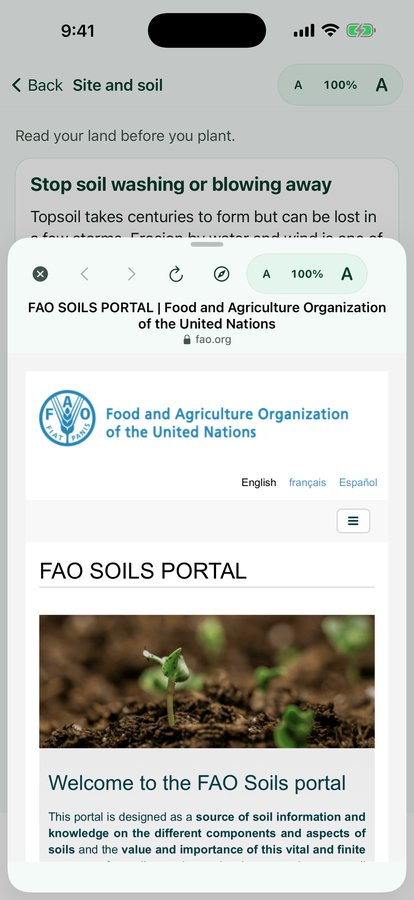
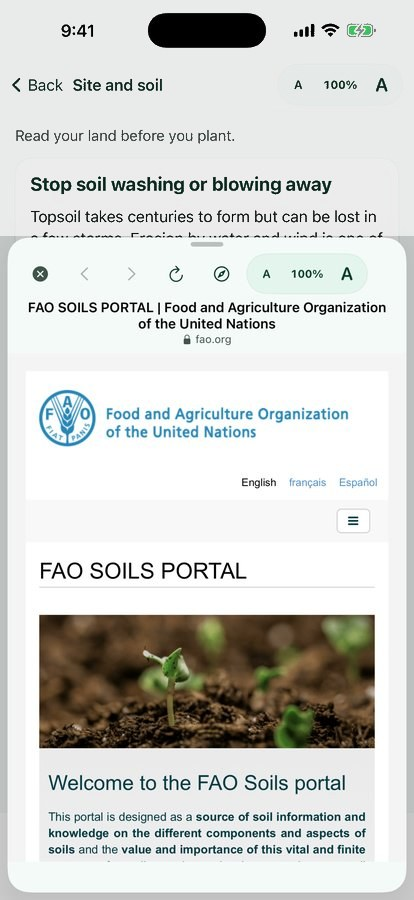
Site: lighter citation-sheet backdrop, cache-bust app screenshots

Changed region(s): [[0.0, 0.0, 1.0, 0.28]]

diff --git a/features/index.html b/features/index.html
@@ -25,7 +25,7 @@
 <section class="hero"><div class="wrap"><span class="eyebrow">Features</span><h1>A plan, and the tools to carry it out.</h1>
 <p class="lead">These screens are from the first-release build on iPhone and Android. It is not in the stores yet. Free shows you enough to judge it; Pro opens the whole library.</p>
 <p><a class="btn" href="../try/">Try it in your browser</a> <a class="btn ghost" href="../pricing/">Free and Pro</a></p></div></section>
-<section><div class="wrap"><div class="feat" id="learn"><div><h2>A library you can search</h2><p><span class="tag">Free: index and search</span><span class="tag pro">Pro: full guides</span></p><p>Learn is one hub for Guides, Crops, Diagnose, Calculators, Equipment and Glossary, with a single search box across all of them. Plan and Saved link straight into it.</p><p class="est">515 places, 69 crops, 188 documents and 306 cited sources are in the library today.</p></div><div class="feat-img"><figure class="phone"><img src="../assets/img/app/ios-learn.jpg" alt="PlainAgri Learn hub with six tiles and a search box" loading="lazy"></figure><figure class="phone"><img src="../assets/img/app/ios-search.jpg" alt="PlainAgri search results across crops, guides and glossary" loading="lazy"></figure></div></div><div class="feat rev" id="crops"><div><h2>Crop pages for your place</h2><p><span class="tag">Free: crop facts</span><span class="tag pro">Pro: growing guide</span></p><p>Pick a crop to see when it can be sown and harvested where you are, with spacing, seed rate and water need clearly labelled as estimates. The growing guide and an Add to my plot button are in Pro.</p></div><div class="feat-img"><figure class="phone"><img src="../assets/img/app/ios-crop.jpg" alt="PlainAgri crop page showing season, spacing and water need" loading="lazy"></figure></div></div><div class="feat" id="diagnose"><div><h2>Diagnose what you see</h2><p><span class="tag">Free: 3 walk-throughs</span><span class="tag pro">Pro: all 38</span></p><p>Answer a few plain questions about the leaves, the fruit or the stored grain. You get likely or possible causes, what to check, what to do and what to avoid, each with sources. Results are never presented as a certainty, and chemical advice always points you to labels and local rules.</p><p><a class="btn ghost" href="../try/#diagnose">Walk a real diagnosis</a></p></div><div class="feat-img"><figure class="phone"><img src="../assets/img/app/ios-diagq.jpg" alt="PlainAgri diagnosis question card" loading="lazy"></figure><figure class="phone"><img src="../assets/img/app/ios-diagr.jpg" alt="PlainAgri diagnosis result with check, do and avoid" loading="lazy"></figure></div></div><div class="feat" id="calculators"><div><h2>Calculators with the formula showing</h2><p><span class="tag">Free: rainwater, when to sow</span><span class="tag pro">Pro: all 9</span></p><p>Size a rainwater tank, work out how much irrigation water a bed needs, count plants and seed, plan fertilizer from a nutrient target, balance a compost heap, estimate storage space, and find your latest sowing date. Every calculator states its formula and assumptions and cites its sources.</p><p><a class="btn ghost" href="../try/#calculators">Try two of them</a></p></div><div class="feat-img"><figure class="phone"><img src="../assets/img/app/ios-calc.jpg" alt="PlainAgri calculator with inputs, results and formula" loading="lazy"></figure></div></div><div class="feat rev" id="plots"><div><h2>My Plots and a season task list</h2><p><span class="tag pro">Pro</span></p><p>Save each plot with its place, area, scale, water and crops. The app builds a season task list: prepare the soil, sow, harvest, with the calendar shifted correctly for your hemisphere and the equator. Reminders are optional, switched on per plot, and scheduled on your device. Nothing is sent anywhere.</p></div><div class="feat-img"><figure class="phone"><img src="../assets/img/app/ios-plot.jpg" alt="PlainAgri plot with season tasks" loading="lazy"></figure><figure class="phone android"><img src="../assets/img/app/and-reminder.jpg" alt="Android reminder notification listing jobs due on plots" loading="lazy"></figure></div></div><div class="feat" id="this-month"><div><h2>This month, at the top</h2><p><span class="tag">Free: outline</span><span class="tag pro">Pro: your plots</span></p><p>Open the Plan tab and the first card says what to sow now, what to harvest now and what is coming next month for your place. With plots saved, your own open tasks join it.</p></div><div class="feat-img"><figure class="phone android"><img src="../assets/img/app/and-this-month.jpg" alt="PlainAgri This month card on Android" loading="lazy"></figure></div></div><div class="feat rev" id="glossary"><div><h2>Words explained, right where you read them</h2><p><span class="tag">Free</span></p><p>234 terms in plain language. In plan and guide text, an underlined word opens a short definition with related terms and sources, then closes back to exactly where you were.</p></div><div class="feat-img"><figure class="phone"><img src="../assets/img/app/ios-term.jpg" alt="PlainAgri glossary definition sheet over a guide" loading="lazy"></figure><figure class="phone"><img src="../assets/img/app/ios-doc.jpg" alt="PlainAgri guide with underlined glossary terms" loading="lazy"></figure></div></div><div class="feat" id="equipment"><div><h2>Equipment from a dibber to a drone</h2><p><span class="tag">Free: the list</span></p><p>108 tools and machines across all seven scales: hand tools, draft animals, small and large machinery, robotic and precision systems, and aerial work. Filter by scale and kind, and every entry says what it needs, the area it suits and the manual alternative.</p></div><div class="feat-img"><figure class="phone"><img src="../assets/img/app/ios-equip.jpg" alt="PlainAgri equipment detail with needs, area and manual alternative" loading="lazy"></figure></div></div><div class="feat" id="export"><div><h2>Take your plan with you</h2><p><span class="tag pro">Pro</span></p><p>Export a plan, or one plot's plan, as a PDF with every section and a numbered source list with web addresses, and share it with the system share sheet. Handy for a co-op meeting, an extension visit or a landlord.</p></div><div class="feat-img"><p class="est">The PDF is plain and printable: your place and setup, each plan section, and a numbered list of sources.</p></div></div><div class="feat rev" id="zoom"><div><h2>Text size that fits you</h2><p><span class="tag">Free, everywhere</span></p><p>Every screen has an A- and A+ control with the exact percentage, from 50 to 300 percent. It scales the whole app, including the tab bar and sheets, on phones, tablets and foldables, and layouts reflow instead of cutting words off. <a href="../try/#zoom">Try the zoom</a>.</p></div><div class="feat-img"><figure class="phone"><img src="../assets/img/app/zoom-50.jpg" alt="PlainAgri plan at 50 percent text size" loading="lazy"></figure><figure class="phone"><img src="../assets/img/app/zoom-100.jpg" alt="PlainAgri plan at 100 percent text size" loading="lazy"></figure><figure class="phone"><img src="../assets/img/app/zoom-300.jpg" alt="PlainAgri plan at 300 percent text size" loading="lazy"></figure></div></div><div class="feat rev" id="themes"><div><h2>Your colours, NutriSize by default</h2><p><span class="tag">Free, everywhere</span></p><p>The app opens in the clean NutriSize Health look: white and soft green with deep green and blue accents, always light. If you prefer something else, Appearance in the About tab offers Field (warm earth tones) and Night (dark). Your choice is saved on your device.</p></div><div class="feat-img"></div></div><div class="feat" id="devices"><div><h2>Fluid on every device</h2><p><span class="tag">Free</span></p><p>Layouts adapt from small phones to tablets: reading width is capped and centred on wide screens, bars tuck away while you scroll at large text sizes, and the app rotates on iPad and Android. Checked on a range of simulated phones, tablets and a foldable.</p></div><div class="feat-img"><figure class="phone" style="width:min(420px,90vw);aspect-ratio:auto"><img src="../assets/img/app/ipad-plan.jpg" alt="PlainAgri plan on an iPad" loading="lazy" style="object-fit:contain"></figure></div></div>
+<section><div class="wrap"><div class="feat" id="learn"><div><h2>A library you can search</h2><p><span class="tag">Free: index and search</span><span class="tag pro">Pro: full guides</span></p><p>Learn is one hub for Guides, Crops, Diagnose, Calculators, Equipment and Glossary, with a single search box across all of them. Plan and Saved link straight into it.</p><p class="est">515 places, 69 crops, 188 documents and 306 cited sources are in the library today.</p></div><div class="feat-img"><figure class="phone"><img src="../assets/img/app/ios-learn.jpg?v=2" alt="PlainAgri Learn hub with six tiles and a search box" loading="lazy"></figure><figure class="phone"><img src="../assets/img/app/ios-search.jpg?v=2" alt="PlainAgri search results across crops, guides and glossary" loading="lazy"></figure></div></div><div class="feat rev" id="crops"><div><h2>Crop pages for your place</h2><p><span class="tag">Free: crop facts</span><span class="tag pro">Pro: growing guide</span></p><p>Pick a crop to see when it can be sown and harvested where you are, with spacing, seed rate and water need clearly labelled as estimates. The growing guide and an Add to my plot button are in Pro.</p></div><div class="feat-img"><figure class="phone"><img src="../assets/img/app/ios-crop.jpg?v=2" alt="PlainAgri crop page showing season, spacing and water need" loading="lazy"></figure></div></div><div class="feat" id="diagnose"><div><h2>Diagnose what you see</h2><p><span class="tag">Free: 3 walk-throughs</span><span class="tag pro">Pro: all 38</span></p><p>Answer a few plain questions about the leaves, the fruit or the stored grain. You get likely or possible causes, what to check, what to do and what to avoid, each with sources. Results are never presented as a certainty, and chemical advice always points you to labels and local rules.</p><p><a class="btn ghost" href="../try/#diagnose">Walk a real diagnosis</a></p></div><div class="feat-img"><figure class="phone"><img src="../assets/img/app/ios-diagq.jpg?v=2" alt="PlainAgri diagnosis question card" loading="lazy"></figure><figure class="phone"><img src="../assets/img/app/ios-diagr.jpg?v=2" alt="PlainAgri diagnosis result with check, do and avoid" loading="lazy"></figure></div></div><div class="feat" id="calculators"><div><h2>Calculators with the formula showing</h2><p><span class="tag">Free: rainwater, when to sow</span><span class="tag pro">Pro: all 9</span></p><p>Size a rainwater tank, work out how much irrigation water a bed needs, count plants and seed, plan fertilizer from a nutrient target, balance a compost heap, estimate storage space, and find your latest sowing date. Every calculator states its formula and assumptions and cites its sources.</p><p><a class="btn ghost" href="../try/#calculators">Try two of them</a></p></div><div class="feat-img"><figure class="phone"><img src="../assets/img/app/ios-calc.jpg?v=2" alt="PlainAgri calculator with inputs, results and formula" loading="lazy"></figure></div></div><div class="feat rev" id="plots"><div><h2>My Plots and a season task list</h2><p><span class="tag pro">Pro</span></p><p>Save each plot with its place, area, scale, water and crops. The app builds a season task list: prepare the soil, sow, harvest, with the calendar shifted correctly for your hemisphere and the equator. Reminders are optional, switched on per plot, and scheduled on your device. Nothing is sent anywhere.</p></div><div class="feat-img"><figure class="phone"><img src="../assets/img/app/ios-plot.jpg?v=2" alt="PlainAgri plot with season tasks" loading="lazy"></figure><figure class="phone android"><img src="../assets/img/app/and-reminder.jpg?v=2" alt="Android reminder notification listing jobs due on plots" loading="lazy"></figure></div></div><div class="feat" id="this-month"><div><h2>This month, at the top</h2><p><span class="tag">Free: outline</span><span class="tag pro">Pro: your plots</span></p><p>Open the Plan tab and the first card says what to sow now, what to harvest now and what is coming next month for your place. With plots saved, your own open tasks join it.</p></div><div class="feat-img"><figure class="phone android"><img src="../assets/img/app/and-this-month.jpg?v=2" alt="PlainAgri This month card on Android" loading="lazy"></figure></div></div><div class="feat rev" id="glossary"><div><h2>Words explained, right where you read them</h2><p><span class="tag">Free</span></p><p>234 terms in plain language. In plan and guide text, an underlined word opens a short definition with related terms and sources, then closes back to exactly where you were.</p></div><div class="feat-img"><figure class="phone"><img src="../assets/img/app/ios-term.jpg?v=2" alt="PlainAgri glossary definition sheet over a guide" loading="lazy"></figure><figure class="phone"><img src="../assets/img/app/ios-doc.jpg?v=2" alt="PlainAgri guide with underlined glossary terms" loading="lazy"></figure></div></div><div class="feat" id="equipment"><div><h2>Equipment from a dibber to a drone</h2><p><span class="tag">Free: the list</span></p><p>108 tools and machines across all seven scales: hand tools, draft animals, small and large machinery, robotic and precision systems, and aerial work. Filter by scale and kind, and every entry says what it needs, the area it suits and the manual alternative.</p></div><div class="feat-img"><figure class="phone"><img src="../assets/img/app/ios-equip.jpg?v=2" alt="PlainAgri equipment detail with needs, area and manual alternative" loading="lazy"></figure></div></div><div class="feat" id="export"><div><h2>Take your plan with you</h2><p><span class="tag pro">Pro</span></p><p>Export a plan, or one plot's plan, as a PDF with every section and a numbered source list with web addresses, and share it with the system share sheet. Handy for a co-op meeting, an extension visit or a landlord.</p></div><div class="feat-img"><p class="est">The PDF is plain and printable: your place and setup, each plan section, and a numbered list of sources.</p></div></div><div class="feat rev" id="zoom"><div><h2>Text size that fits you</h2><p><span class="tag">Free, everywhere</span></p><p>Every screen has an A- and A+ control with the exact percentage, from 50 to 300 percent. It scales the whole app, including the tab bar and sheets, on phones, tablets and foldables, and layouts reflow instead of cutting words off. <a href="../try/#zoom">Try the zoom</a>.</p></div><div class="feat-img"><figure class="phone"><img src="../assets/img/app/zoom-50.jpg?v=2" alt="PlainAgri plan at 50 percent text size" loading="lazy"></figure><figure class="phone"><img src="../assets/img/app/zoom-100.jpg?v=2" alt="PlainAgri plan at 100 percent text size" loading="lazy"></figure><figure class="phone"><img src="../assets/img/app/zoom-300.jpg?v=2" alt="PlainAgri plan at 300 percent text size" loading="lazy"></figure></div></div><div class="feat rev" id="themes"><div><h2>Your colours, NutriSize by default</h2><p><span class="tag">Free, everywhere</span></p><p>The app opens in the clean NutriSize Health look: white and soft green with deep green and blue accents, always light. If you prefer something else, Appearance in the About tab offers Field (warm earth tones) and Night (dark). Your choice is saved on your device.</p></div><div class="feat-img"></div></div><div class="feat" id="devices"><div><h2>Fluid on every device</h2><p><span class="tag">Free</span></p><p>Layouts adapt from small phones to tablets: reading width is capped and centred on wide screens, bars tuck away while you scroll at large text sizes, and the app rotates on iPad and Android. Checked on a range of simulated phones, tablets and a foldable.</p></div><div class="feat-img"><figure class="phone" style="width:min(420px,90vw);aspect-ratio:auto"><img src="../assets/img/app/ipad-plan.jpg?v=2" alt="PlainAgri plan on an iPad" loading="lazy" style="object-fit:contain"></figure></div></div>
 <p class="est">Screens show sample places and plots. Guides are AI-drafted and spot-checked; nothing is called expert-reviewed until a named expert signs off. Always confirm local conditions and product labels.</p></div></section>
 </main>
 <footer><details class="footer-dock"><summary><span class="dock-links"><a href="../">Home</a><a href="../privacy/">Privacy</a><a href="../support/">Support</a></span><span class="dock-copy">&copy; 2026 EqualInformation, LLC</span><span class="dock-more">More</span></summary>

diff --git a/index.html b/index.html
@@ -46,11 +46,11 @@
 <section class="alt"><div class="wrap"><h2>See it in the app</h2>
 <p class="lead">Real screens from the first-release build on iPhone and Android. These are a taste: the full plan, the whole library and saved plans are in the app.</p>
 <div class="shots">
-<figure><div class="phone"><img src="assets/img/app/plan.jpg" alt="PlainAgri plan screen for Nairobi showing climate zone, setup and plan sections" loading="lazy"></div><figcaption>Your place, your setup, your plan</figcaption></figure>
-<figure><div class="phone"><img src="assets/img/app/crops.jpg" alt="PlainAgri what to grow here screen" loading="lazy"></div><figcaption>Crops that suit your climate</figcaption></figure>
-<figure><div class="phone"><img src="assets/img/app/machinery.jpg" alt="PlainAgri guidance for machinery scale" loading="lazy"></div><figcaption>Methods that match your scale</figcaption></figure>
-<figure><div class="phone"><img src="assets/img/app/sources.jpg" alt="PlainAgri in-app source viewer opened at 80 percent height" loading="lazy"></div><figcaption>Every source opens in the app</figcaption></figure>
-<figure><div class="phone android"><img src="assets/img/app/android-water.jpg" alt="PlainAgri on Android, water section" loading="lazy"></div><figcaption>The same plan on Android</figcaption></figure>
+<figure><div class="phone"><img src="assets/img/app/plan.jpg?v=2" alt="PlainAgri plan screen for Nairobi showing climate zone, setup and plan sections" loading="lazy"></div><figcaption>Your place, your setup, your plan</figcaption></figure>
+<figure><div class="phone"><img src="assets/img/app/crops.jpg?v=2" alt="PlainAgri what to grow here screen" loading="lazy"></div><figcaption>Crops that suit your climate</figcaption></figure>
+<figure><div class="phone"><img src="assets/img/app/machinery.jpg?v=2" alt="PlainAgri guidance for machinery scale" loading="lazy"></div><figcaption>Methods that match your scale</figcaption></figure>
+<figure><div class="phone"><img src="assets/img/app/sources.jpg?v=2" alt="PlainAgri in-app source viewer opened at 80 percent height" loading="lazy"></div><figcaption>Every source opens in the app</figcaption></figure>
+<figure><div class="phone android"><img src="assets/img/app/android-water.jpg?v=2" alt="PlainAgri on Android, water section" loading="lazy"></div><figcaption>The same plan on Android</figcaption></figure>
 </div></div></section>
 
 <section><div class="wrap"><h2>More than a plan: a whole toolbox</h2>

diff --git a/tools/gen.py b/tools/gen.py
@@ -85,11 +85,11 @@ page("","PlainAgri: Tell us where you are. We plan the rest.","PlainAgri designs
 <section class="alt"><div class="wrap"><h2>See it in the app</h2>
 <p class="lead">Real screens from the first-release build on iPhone and Android. These are a taste: the full plan, the whole library and saved plans are in the app.</p>
 <div class="shots">
-<figure><div class="phone"><img src="assets/img/app/plan.jpg" alt="PlainAgri plan screen for Nairobi showing climate zone, setup and plan sections" loading="lazy"></div><figcaption>Your place, your setup, your plan</figcaption></figure>
-<figure><div class="phone"><img src="assets/img/app/crops.jpg" alt="PlainAgri what to grow here screen" loading="lazy"></div><figcaption>Crops that suit your climate</figcaption></figure>
-<figure><div class="phone"><img src="assets/img/app/machinery.jpg" alt="PlainAgri guidance for machinery scale" loading="lazy"></div><figcaption>Methods that match your scale</figcaption></figure>
-<figure><div class="phone"><img src="assets/img/app/sources.jpg" alt="PlainAgri in-app source viewer opened at 80 percent height" loading="lazy"></div><figcaption>Every source opens in the app</figcaption></figure>
-<figure><div class="phone android"><img src="assets/img/app/android-water.jpg" alt="PlainAgri on Android, water section" loading="lazy"></div><figcaption>The same plan on Android</figcaption></figure>
+<figure><div class="phone"><img src="assets/img/app/plan.jpg?v=2" alt="PlainAgri plan screen for Nairobi showing climate zone, setup and plan sections" loading="lazy"></div><figcaption>Your place, your setup, your plan</figcaption></figure>
+<figure><div class="phone"><img src="assets/img/app/crops.jpg?v=2" alt="PlainAgri what to grow here screen" loading="lazy"></div><figcaption>Crops that suit your climate</figcaption></figure>
+<figure><div class="phone"><img src="assets/img/app/machinery.jpg?v=2" alt="PlainAgri guidance for machinery scale" loading="lazy"></div><figcaption>Methods that match your scale</figcaption></figure>
+<figure><div class="phone"><img src="assets/img/app/sources.jpg?v=2" alt="PlainAgri in-app source viewer opened at 80 percent height" loading="lazy"></div><figcaption>Every source opens in the app</figcaption></figure>
+<figure><div class="phone android"><img src="assets/img/app/android-water.jpg?v=2" alt="PlainAgri on Android, water section" loading="lazy"></div><figcaption>The same plan on Android</figcaption></figure>
 </div></div></section>
 
 <section><div class="wrap"><h2>More than a plan: a whole toolbox</h2>
@@ -215,7 +215,7 @@ page("about","About PlainAgri","PlainAgri is built by one highly experienced eng
 
 # ---------- features ----------
 def ph(img,alt,android=False):
-    return f'<figure class="phone{" android" if android else ""}"><img src="../assets/img/app/{img}" alt="{alt}" loading="lazy"></figure>'
+    return f'<figure class="phone{" android" if android else ""}"><img src="../assets/img/app/{img}?v=2" alt="{alt}" loading="lazy"></figure>'
 def feat(fid,title,tags,text,imgs,rev=False):
     t="".join(f'<span class="tag{" pro" if x.startswith("Pro") else ""}">{x}</span>' for x in tags)
     return f'<div class="feat{" rev" if rev else ""}" id="{fid}"><div><h2>{title}</h2><p>{t}</p>{text}</div><div class="feat-img">{imgs}</div></div>'
@@ -231,7 +231,7 @@ FEATS=[
  feat("export","Take your plan with you",["Pro"],"<p>Export a plan, or one plot's plan, as a PDF with every section and a numbered source list with web addresses, and share it with the system share sheet. Handy for a co-op meeting, an extension visit or a landlord.</p>",'<p class="est">The PDF is plain and printable: your place and setup, each plan section, and a numbered list of sources.</p>'),
  feat("zoom","Text size that fits you",["Free, everywhere"],"<p>Every screen has an A- and A+ control with the exact percentage, from 50 to 300 percent. It scales the whole app, including the tab bar and sheets, on phones, tablets and foldables, and layouts reflow instead of cutting words off. <a href=\"../try/#zoom\">Try the zoom</a>.</p>",ph("zoom-50.jpg","PlainAgri plan at 50 percent text size")+ph("zoom-100.jpg","PlainAgri plan at 100 percent text size")+ph("zoom-300.jpg","PlainAgri plan at 300 percent text size"),True),
  feat("themes","Your colours, NutriSize by default",["Free, everywhere"],"<p>The app opens in the clean NutriSize Health look: white and soft green with deep green and blue accents, always light. If you prefer something else, Appearance in the About tab offers Field (warm earth tones) and Night (dark). Your choice is saved on your device.</p>","",True),
- feat("devices","Fluid on every device",["Free"],"<p>Layouts adapt from small phones to tablets: reading width is capped and centred on wide screens, bars tuck away while you scroll at large text sizes, and the app rotates on iPad and Android. Checked on a range of simulated phones, tablets and a foldable.</p>",f'<figure class="phone" style="width:min(420px,90vw);aspect-ratio:auto"><img src="../assets/img/app/ipad-plan.jpg" alt="PlainAgri plan on an iPad" loading="lazy" style="object-fit:contain"></figure>'),
+ feat("devices","Fluid on every device",["Free"],"<p>Layouts adapt from small phones to tablets: reading width is capped and centred on wide screens, bars tuck away while you scroll at large text sizes, and the app rotates on iPad and Android. Checked on a range of simulated phones, tablets and a foldable.</p>",f'<figure class="phone" style="width:min(420px,90vw);aspect-ratio:auto"><img src="../assets/img/app/ipad-plan.jpg?v=2" alt="PlainAgri plan on an iPad" loading="lazy" style="object-fit:contain"></figure>'),
 ]
 page("features","Features: what PlainAgri does","Everything in the first release of PlainAgri: plan, library, diagnose, calculators, equipment, My Plots, glossary, export and text zoom, with real screenshots.",f'''
 <section class="hero"><div class="wrap"><span class="eyebrow">Features</span><h1>A plan, and the tools to carry it out.</h1>
